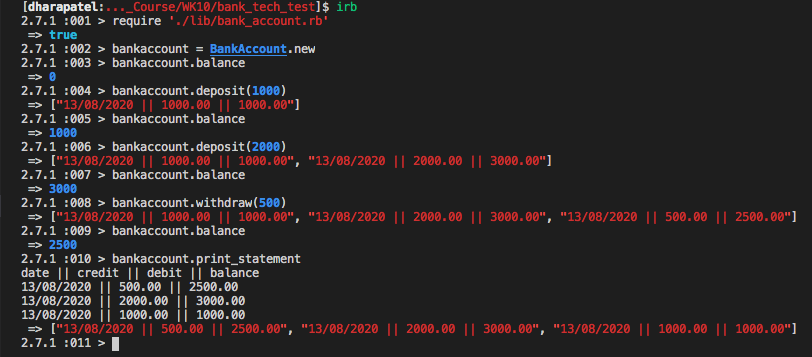
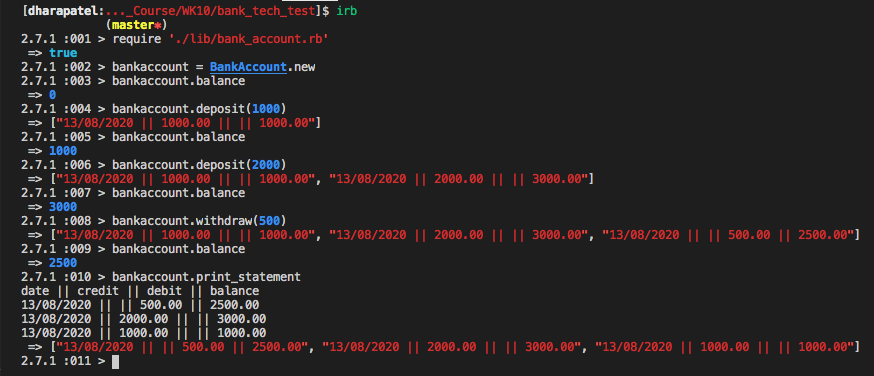
Refactored output formatting to meet exact specifications

Changed region(s): [[0.0, 0.0, 0.9852, 0.986]]

diff --git a/spec/bank_account_spec.rb b/spec/bank_account_spec.rb
@@ -21,7 +21,7 @@ describe BankAccount do
 
     it 'adds date, credit/debit and balance to an array when money is deposited' do
       subject.deposit(1000)
-      expect(subject.transaction_history).to eq(["#{Time.now.strftime('%d/%m/%Y')} || 1000.00 || 1000.00"])
+      expect(subject.transaction_history).to eq(["#{Time.now.strftime('%d/%m/%Y')} || 1000.00 || || 1000.00"])
     end
   end
 
@@ -42,8 +42,8 @@ describe BankAccount do
     it 'adds date, credit/debit and balance to an array when money is withdrawn' do
       subject.deposit(1000)
       subject.withdraw(500)
-      expect(subject.transaction_history).to eq(["#{Time.now.strftime('%d/%m/%Y')} || 1000.00 || 1000.00",
-        "#{Time.now.strftime('%d/%m/%Y')} || 500.00 || 500.00"])
+      expect(subject.transaction_history).to eq(["#{Time.now.strftime('%d/%m/%Y')} || 1000.00 || || 1000.00",
+        "#{Time.now.strftime('%d/%m/%Y')} || || 500.00 || 500.00"])
     end
   end
 
@@ -51,8 +51,8 @@ describe BankAccount do
     it 'prints the formatted bank_statement' do
       subject.deposit(1000)
       subject.withdraw(500)
-      expect(subject.print_statement).to eq(["#{Time.now.strftime('%d/%m/%Y')} || 500.00 || 500.00", 
-        "#{Time.now.strftime('%d/%m/%Y')} || 1000.00 || 1000.00"])
+      expect(subject.print_statement).to eq(["#{Time.now.strftime('%d/%m/%Y')} || || 500.00 || 500.00", 
+        "#{Time.now.strftime('%d/%m/%Y')} || 1000.00 || || 1000.00"])
     end
   end
 end

diff --git a/spec/bank_statement_spec.rb b/spec/bank_statement_spec.rb
@@ -9,16 +9,16 @@ describe BankStatement do
     it 'prints the formatted account_history' do
       bankaccount = BankAccount.new
       bankaccount.deposit(1000)
-      expect(subject.print(["#{Time.now.strftime('%d/%m/%Y')} || 1000.00 || 1000.00"])).to eq(["#{Time.now.strftime('%d/%m/%Y')} || 1000.00 || 1000.00"])
+      expect(subject.print(["#{Time.now.strftime('%d/%m/%Y')} || 1000.00 || || 1000.00"])).to eq(["#{Time.now.strftime('%d/%m/%Y')} || 1000.00 || || 1000.00"])
     end
 
     it 'prints the formatted account_history with most recent transaction first' do
       bankaccount = BankAccount.new
       bankaccount.deposit(1000)
       bankaccount.withdraw(500)
-      expect(subject.print(["#{Time.now.strftime('%d/%m/%Y')} || 1000.00 || 1000.00", 
-        "#{Time.now.strftime('%d/%m/%Y')} || 500.00 || 500.00"])).to eq(["#{Time.now.strftime('%d/%m/%Y')} || 500.00 || 500.00", 
-        "#{Time.now.strftime('%d/%m/%Y')} || 1000.00 || 1000.00"])
+      expect(subject.print(["#{Time.now.strftime('%d/%m/%Y')} || 1000.00 || || 1000.00", 
+        "#{Time.now.strftime('%d/%m/%Y')} || || 500.00 || 500.00"])).to eq(["#{Time.now.strftime('%d/%m/%Y')} || || 500.00 || 500.00", 
+        "#{Time.now.strftime('%d/%m/%Y')} || 1000.00 || || 1000.00"])
     end
   end
 end

diff --git a/lib/bank_account.rb b/lib/bank_account.rb
@@ -11,14 +11,14 @@ class BankAccount
 
   def deposit(amount)
     @balance += amount
-    @transaction_history.push("#{date} || #{('%.2f' % amount)} || #{('%.2f' % @balance)}")
+    @transaction_history.push("#{date} || #{('%.2f' % amount)} || || #{('%.2f' % @balance)}")
   end
 
   def withdraw(amount)
     raise 'Withdrawal amount exceeds current balance' if amount > balance
 
     @balance -= amount
-    @transaction_history.push("#{date} || #{('%.2f' % amount)} || #{('%.2f' % @balance)}")
+    @transaction_history.push("#{date} || || #{('%.2f' % amount)} || #{('%.2f' % @balance)}")
   end
 
   def print_statement
